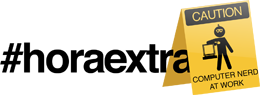
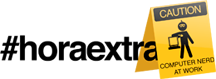
alteraç

diff --git a/public/css/style.css b/public/css/style.css
@@ -31,13 +31,16 @@ hr { display:block; height:1px; border:0; border-top:1px solid #ccc; margin:1em 
 input, select { vertical-align:middle; }
 
 
-body { font:13px/1.231 sans-serif; *font-size:small; } 
+/* fixing firefox bug */
+div:after, ol:after, li:after, form:after, ul:after, dl:after {content:".";display:block;clear:both;visibility:hidden;height:0;overflow:hidden;}
+
+body { font:13px/1.231 sans-serif; *font-size:small;background:#f2f1eb; padding: 0 40px;} 
 select, input, textarea, button { font:99% sans-serif; }
 pre, code, kbd, samp { font-family: monospace, sans-serif; }
 
 body, select, input, textarea {   color: #444; }
 h1,h2,h3,h4,h5,h6 { font-weight: bold; }
-html { overflow-y: scroll; }
+html { overflow-y: scroll;  overflow-x:hidden;}
 
 a:hover, a:active { outline: none; }
 a, a:active, a:visited { color: #607890; }
@@ -86,23 +89,26 @@ button {  width: auto; overflow: visible; }
     Author: Leonardo Balter
  */
 
-html {
-	background: transparent none 0 0 repeat scroll;
-}
+html {background:#f2f1eb;}
 
 #container {
 	margin: 0px auto;
-	width: 806px;
+	width: 860px;
     font-family: 'Droid Sans', arial, serif;
+-webkit-transform: rotate(-1deg);
+-moz-transform: rotate(-1deg);
+transform: rotate(-1deg);
 
 }
 
 #logo {
     display: block;
     margin: 0 auto;
+	position:relative;
+	z-index:2;
 }
 
-.main {
+/*.main {
 	-webkit-box-shadow: #A9A8A8 0px 1px 3px;
 	box-shadow: #A9A8A8 0px 1px 3px;
 	background: #f9f9f9;
@@ -112,10 +118,15 @@ html {
 	padding: 25px 20px 15px;
 	position: relative;
 	width: 648px;
+} */
+.main {
+	margin: 0px auto 20px;
+	position: relative;
 }
 
 header {
 	padding: 30px 0px;
+	margin-bottom:60px;
 }
 
 header h1 {
@@ -124,20 +135,7 @@ header h1 {
     text-align:center;
     margin: 20px;
 }
-
-.textshadow header h1 {
-    text-shadow: 0 1px 0 #595959,
-                0 2px 0 #595959,
-                0 3px 0 #5c5c5c,
-                0 4px 0 #8b8b8b,
-                0 5px 0 #aaa,
-                0 6px 1px rgba(0,0,0,.1),
-                0 0 5px rgba(0,0,0,.1),
-                0 1px 3px rgba(0,0,0,.3),
-                0 3px 5px rgba(0,0,0,.2),
-                0 5px 10px rgba(0,0,0,.25),
-                0 10px 10px rgba(0,0,0,.2),
-                0 20px 20px rgba(0,0,0,.15);
+header div {position: absolute; background:#26251e;height:200px; left:-150px; right:0; width:3000px;top:-50px;	z-index:0;
 }
 
 header .description{
@@ -148,11 +146,16 @@ header .description{
 	text-align: center;
 }
 
-.main h2, .main h1 {
-    font-family: 'Droid Sans', arial, serif;
-    color:#146387;
-    font-size:20px;
-    margin:0px 0px 10px 0px
+h2 {
+    font: normal 3em/1em 'Cabin Sketch', arial, serif;
+    color:#333;
+    margin-bottom: .2em;
+}
+
+p {
+    font: normal 1em/1.4em arial, serif;
+    color:#333;
+    margin-bottom: 1em;
 }
 
 ul.linear {
@@ -166,11 +169,7 @@ ul.linear li {
 
 #main h3 {
     margin-top: 4px;
-}
-
-#about {
-    margin-bottom: 12px;
-}  
+} 
 
 #fromAPI {
     margin-top: 12px;
@@ -193,9 +192,9 @@ ul.linear li {
 }
 
 .hairline {
-	border-bottom: 1px solid #eee;
-	margin-bottom: 22px;
-	padding-bottom: 20px;
+	border-bottom: 1px solid #bfbcad;
+	margin-bottom: 40px;
+	padding-bottom: 40px;
 }
 
 .pagination {
@@ -244,23 +243,17 @@ ul.linear li {
 	margin-bottom: 6px;
 }
 
-.temas h3 {
-    font-size: 18px;
-    margin-bottom: 10px;
-    color: #146387;
-}
-
 .temas {
     list-style: none inside;
     padding-left: 0;
     margin-left: 0;
-    margin-top: 20px;
+    padding-top: 30px;
     line-height: 1.8em;
 }
 
-.temas > li {
+/*.temas > li {
     padding: 20px;
-    margin-bottom: 20px;
+    margin-bottom: 60px;
     background: white;
     padding: 20px;
     border-radius:0 14px 14px/18px 12px;
@@ -271,29 +264,35 @@ ul.linear li {
 .temas > li:hover {
     border: #146387 1px solid;
 }
+*/
+.temas > li {
+    padding: 20px 20px 40px;
+	border-bottom: 1px solid #bfbcad;
+    margin-bottom: 60px;
+}
+.temas > li:last-child {border: none; padding-bottom:0;margin:0;}
 
 #map_canvas {
     height: 300px;
 }
 
 #apoio a {
-	font-size: 22px;
+	border:1px solid #bfbcad;
+	background:#fff;
+    border-radius: 10px;
+    -moz-border-radius: 10px;
+    -webkit-border-radius: 10px;
+	display: block;
+	height:auto;
+	padding:20px;
+	text-align:center;
+	font: normal 4em/1.1em 'Carter One', arial;
 	text-decoration: none;
-	text-shadow: 1px 1px 1px #ccc;
+	color:#333;
+	letter-spacing: -.02em;
+	margin-bottom:20px;
 }
-
-.csscolumns #apoio .temas {
-	-moz-column-count: 2;
-	-moz-column-width: 300px;
-	-moz-column-gap: 20px;
-	-webkit-column-count: 2;
-	-webkit-column-width: 300px;
-	-webkit-column-gap: 20px;
-	column-count: 2;
-	column-width: 300px;
-	column-gap: 20px;
-	min-height: 364px;
-}
+#apoio a:hover {border-color:#146387;}
 
 #timeSlider {
     height: 380px;
@@ -310,19 +309,47 @@ ul.linear li {
 }
 
 #listaPalestras h3 {
-    font-size: 14px;
-    margin-bottom: 4px;
-    color: #146387;
+    margin-bottom: .8em;
+	font: normal 2em/1.1em 'Carter One', arial;
+	padding:20px;
+	background: #26251e;
+	color:#fff;
+-webkit-transform: rotate(-1.1deg);
+-moz-transform: rotate(-1.1deg);
+transform: rotate(-1.1deg);
+margin-left:-40px;
+margin-top:-60px;
+display: inline-block;
+max-width:450px;
 }
-
+#listaPalestras li:hover h3 {
+  -moz-transition-duration: 1s;
+  -webkit-transition-duration: 1s;
+  transition-duration: 1s;
+  -webkit-transform: rotate(0deg);
+  -moz-transform: rotate(0deg);
+  transform: rotate(0deg);
+  background: #146387;
+}
+	
+	
 #listaPalestras .keynoteRoom {
-    font-weight: 700;
-    margin: 4px 0;
+    font-weight: bolder;
+	font-size:1.1em;
+    margin: 5px 10px 5px 0;
+	padding:7px 0 7px 32px;
+	background: transparent url(../icon-room.png) no-repeat left top;
+	float:left;
+	width:100px;
+	
 }
 
 #listaPalestras .keynoteTime {
-    font-style: italic;
-    font-size: 11px;
+		float:left;
+	font-size:1.1em;
+    margin: 5px 0;
+	padding:7px 0 7px 36px;
+	background: transparent url(../icon-clock.png) no-repeat left top;
 }
 
 
@@ -334,10 +361,18 @@ ul.linear li {
   
 }
 
-@media screen and (max-device-width: 480px) {
-  
-  
+@media screen and (max-device-width: 800px) {
   /* html { -webkit-text-size-adjust:none; -ms-text-size-adjust:none; } */
+}
+/* large screen */
+@media screen and (max-width: 980px) {	  
+#container {
+	width: 100%;
+-webkit-transform: rotate(0deg);
+-moz-transform: rotate(0deg);
+transform: rotate(0deg);
+
+}
 }
 
 @media print {

diff --git a/public/index.html b/public/index.html
@@ -8,20 +8,23 @@
 	<meta charset="UTF-8">
 	<meta http-equiv="X-UA-Compatible" content="IE=edge,chrome=1">
 	
-	<title>FrontInRio</title>
-	<meta name="description" content="FrontInRio 2011 - Tudo sobre Desenvolvimento Front-end no Rio de Janeiro, dia 18 de junho na UniRio!">
+	<title>FrontInRio 2011</title>
+	<meta name="description" content="Tudo sobre Desenvolvimento Front-end no Rio de Janeiro, dia 18 de junho na UniRio!">
 	<meta name="author" content="Leo Balter">
 	
 	<meta name="viewport" content="width=device-width, initial-scale=1.0">
 	
 	<link rel="shortcut icon" href="favicon.ico">
 	<link rel="apple-touch-icon" href="apple-touch-icon.png">
-	<link rel="stylesheet" href="css/style.css?v=2">
+	<link rel="stylesheet" href="css/style.css?v=3">
+    <link href='http://fonts.googleapis.com/css?family=Cabin+Sketch:bold' rel='stylesheet' type='text/css'>
+    <link href='http://fonts.googleapis.com/css?family=Carter+One' rel='stylesheet' type='text/css'>
 </head>
 <body>
     <div id="container"> 
         <header> 
-                <img id="logo" src="frontinrio.jpg" alt="FrontInRio 2011" width="330" height="110" />
+                <img id="logo" src="frontinrio.png" alt="FrontInRio 2011" />
+                <div></div>
         </header> 
 
         <section id="main" class="main" itemscope itemtype="http://data-vocabulary.org/Event"> 
@@ -31,8 +34,6 @@
                     <p class="phrase original">O <span itemprop="summary">FrontInRio</span> é uma <span itemprop="description">oportunidade da comunidade de desenvolvimento front-end fluminense se conhecer e se aprimorar. Compartilhando experiências para o bem comum.</span></p>
                     <h3>Quando será?</h3> 
                     <p class="phrase original">O evento vai rolar no dia <time itemprop="startdate" datetime="2011-06-18T08:00-03:00">18 de junho de 2011, a partir das 8h</time> até o #horaextra no final do dia.</p> 
-                    <h3>Onde será?</h3> 
-                    <p class="phrase original">O evento será na <span itemprop="location" itemscope itemtype="http://data-vocabulary.org/Organization"><span itemprop="name">UniRio</span>, na <span itemprop="street-address">Av. Pasteur 458, prédio do CCET, sala 204 - Urca</span>, <span itemprop="locality">Rio de Janeiro</span>/<span itemprop="region">RJ</span></span>!</p>
                     <h3>O evento é gratuito?</h3>
                     <p class="phrase original">Não, mas é bem barato!</p>
                     
@@ -47,30 +48,35 @@
                         </ul> 
                     </nav> 
                 </article> 
+                <section class="hairline">
+                <h2>Onde será?</h2> 
+                    <p>O evento será na <span itemprop="location" itemscope itemtype="http://data-vocabulary.org/Organization"><span itemprop="name">UniRio</span>, na <span itemprop="street-address">Av. Pasteur 458, prédio do CCET, sala 204 - Urca</span>, <span itemprop="locality">Rio de Janeiro</span>/<span itemprop="region">RJ</span></span>!</p>
                 
                 <section id="map_canvas"></section>
-
+              </section>
             </section> 
-            <section class="main"> 
+            <section class="main hairline"> 
                     <h2>Os temas do evento</h2> 
 
                     <p>
                         Os temas do evento foram definidos através do <em>call4paperz</em>.
                     </p>
                     <div id="timeSlider"></div>
+            </section>  
+            <section class="main hairline"> 
                     
                     <div id="listaPalestras">
-                        <h2>Você também pode ver uma lista das palestras a seguir:</h2>
+                        <h2>Você também pode ver estas palestras:</h2>
                         
-                    </div>
-            </section>                 
+                    </div>  
+            </section>               
 
-            <section class="main"> 
+            <section class="main hairline"> 
                     <h2>Inscrições</h2>
                     <p>Em breve</p>
             </section>
 
-			<section class="main"> 
+			<section class="main hairline"> 
                     <div id="twitter"></div>
             </section>
 
@@ -82,18 +88,15 @@
 
 				<section id="apoio">
 					<h2>Apoiadores, Idealizadores e Inspiradores:</h2>
-					<ul class="temas">
+					<ul>
 
 						<li><a href="http://www.devinrio.com.br">DevInRio</a></li>
-						<li><a href="http://www.horaextra.org" title="#horaextra"><img src="horaextra.png" width="260px" height="95" alt="#horaextra"/></a></li>
+						<li><a href="http://www.horaextra.org" title="#horaextra"><img src="horaextra.png" alt="#horaextra"/></a></li>
 						<li><a href="http://www.smallactsmanifesto.org">Small Acts</a></li>
-						<li><a href="http://www.desconferencia.com.br" title="Desconferência Podcast"><img src="desconf.png" width="260px" height="79" alt="Desconferência Podcast" /></a></li>
+						<li><a href="http://www.desconferencia.com.br" title="Desconferência Podcast"><img src="desconf.png" alt="Desconferência Podcast" /></a></li>
 					</ul>
 				</section>
     	    </footer>
-            <header>
-                <h1>FrontInRio 2011</h1>
-            </header>
       </div> <!-- end of #container --> 
       
 	<script src="js/libs/modernizr-1.7.min.js"></script>
